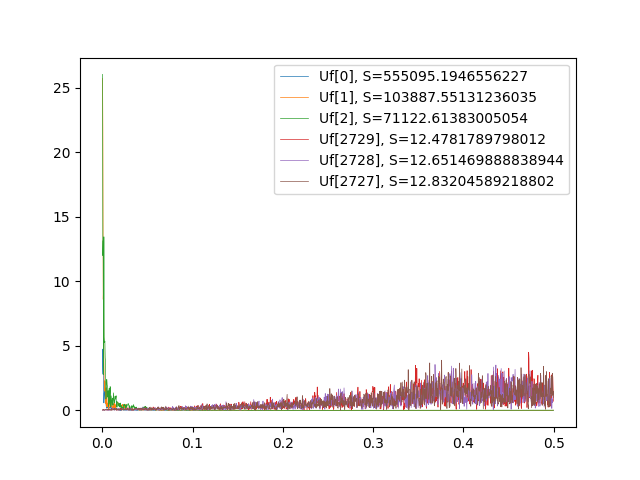
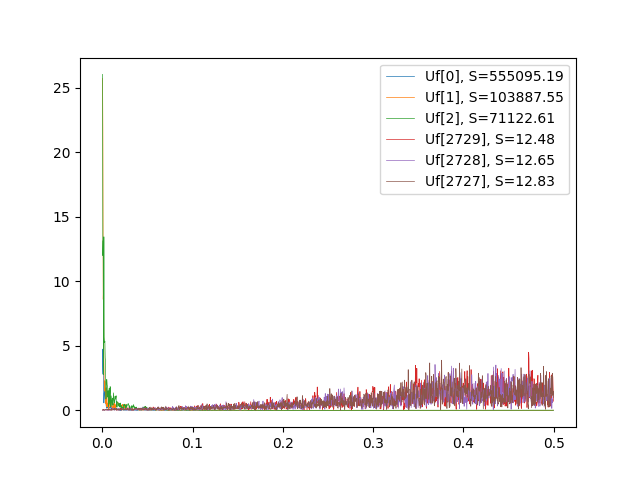
.

Changed region(s): [[0.5, 0.125, 0.875, 0.4062], [0.4375, 0.375, 0.4688, 0.4062]]

diff --git a/solution/T03.1.py b/solution/T03.1.py
@@ -1,0 +1,120 @@
+import torch
+
+# We will decompose tensor with QR, SVD and calculate entanglement entropy of decomposed tensors.
+
+# We will use the following notation:
+#   1. A = QR, where Q is unitary and R is upper triangular.
+#   2. A = U S V, where U and V are unitary and S is diagonal.
+
+print("# Exercise (a): Check the integrity of the tensor decomposition")
+
+N = 5
+sigma = [*range(6, N + 6)]
+# T0 = T = np.random.rand(*sigma)
+T0 = T = torch.rand(*sigma, dtype=torch.complex128) # float64 + float64 > complex128.
+Qs = []
+alpha = 1
+
+for i in range(N - 1):
+    T = T.reshape((alpha * sigma[i], -1))
+    # U, S, VT = np.linalg.svd(T, full_matrices=False)
+    # U, S, VT = torch.linalg.svd(T, full_matrices=False)
+    Q, R = torch.linalg.qr(T, mode='reduced')
+    Q = Q.reshape((alpha, sigma[i], -1))
+    Qs.append(Q)
+    T = R
+    alpha = Q.shape[-1]
+T = T.reshape((alpha, sigma[N - 1], -1))
+Qs.append(T)
+
+print("Shapes:", [tuple(Q.shape) for Q in Qs])
+print("T0[1,1,1,1,1]:", T0[1,1,1,1,1])
+
+# First way to get `T[1,1,1,1,1]`
+q0 = Qs[0][:, 1, :]
+q1 = Qs[1][:, 1, :]
+q2 = Qs[2][:, 1, :]
+q3 = Qs[3][:, 1, :]
+q4 = Qs[4][:, 1, :]
+q = q0 @ q1 @ q2 @ q3 @ q4
+
+print("T0[1,1,1,1,1]:", q[0, ..., 0])
+
+# Second way to get `T[1,1,1,1,1]` (you can also use `torch.einsum`)
+q = torch.tensordot(Qs[0], Qs[1], ([-1], [0]))
+q = torch.tensordot(q, Qs[2], ([-1], [0]))
+q = torch.tensordot(q, Qs[3], ([-1], [0]))
+q = torch.tensordot(q, Qs[4], ([-1], [0]))
+q = q.squeeze(0).squeeze(-1)
+# q = q.squeeze((0, -1)) # for numpy
+print("T0[1,1,1,1,1]:", q[1, 1, 1, 1, 1])
+# double precision noise ~ 53 bits ~ 16 digits = 1e-16
+print("difference max:", torch.max(torch.abs(q - T0)))
+
+print("# Exercise (b): Entanglement entropies for different bipartitions")
+
+for A in [{0, 1}, {0, 2}, {0, 4}]:
+    B = list(set(range(N)) - A)
+    A = list(A)
+    tmp = T0.permute(*A, *B).contiguous().view(sigma[A[0]] * sigma[A[1]], -1)
+    U, S, VT = torch.linalg.svd(tmp, full_matrices=False)
+    S /= torch.sqrt(torch.sum(S ** 2))
+    print(f"Entanglement entropy for bipartition {A}, {B} is {-torch.sum(S ** 2 * torch.log2(S ** 2)):.4f}")
+
+
+print("# Exercise (c): Use the SVD for the tensor decomposition and compute the entanglement entropy")
+
+T = T0
+Us = []
+alpha = 1
+
+for i in range(N - 1):
+    T = T.reshape((alpha * sigma[i], -1))
+    U, S, VT = torch.linalg.svd(T, full_matrices=False)
+    s = S / torch.sqrt(torch.sum(S ** 2))
+    print(f"Entanglement entropy for bipartition for {i}th SVD is: {-torch.sum(s ** 2 * torch.log2(s ** 2)):.4f}")
+    U = U.reshape((alpha, sigma[i], -1))
+    Us.append(U)
+    T = S.reshape((-1, 1)) * VT
+    alpha = U.shape[-1]
+T = T.reshape((alpha, sigma[N - 1], -1))
+Us.append(T)
+
+# Yes, this is `torch.einsum`
+q = torch.einsum('abc, cde, efg, ghi, ijk -> abdfhjk', Us[0], Us[1], Us[2], Us[3], Us[4])
+q = q.squeeze(0).squeeze(-1)
+print("Params:", sum([torch.numel(U) for U in Us]))
+print("Shapes:", [tuple(U.shape) for U in Us])
+print("T0[1,1,1,1,1]:", q[1, 1, 1, 1, 1])
+print("difference max:", torch.max(torch.abs(q - T0)))
+
+T = T0
+Us = []
+alpha = 1
+eps = 5
+
+for i in range(N - 1):
+    T = T.reshape((alpha * sigma[i], -1))
+    U, S, VT = torch.linalg.svd(T, full_matrices=False)
+    # Caution: SVD of matrix is not unique.
+    # especially, spectral values are given **nonnegative** in pytorch and numpy.
+    # SVD is given by eigendecomposition of A^T A, which is positive semidefinite, which gives nonnegative eigenvalues.
+    # singular value is square root of eigenvalues of A^T A
+    # Spectral values may not be nonnegative in other variants of SVD(randomized SVD, ...)
+    idx = S < eps
+    U = U[:, ~idx]
+    S = S[~idx]
+    VT = VT[~idx, :]
+    U = U.reshape((alpha, sigma[i], -1))
+    Us.append(U)
+    T = S.reshape((-1, 1)) * VT
+    alpha = U.shape[-1]
+T = T.reshape((alpha, sigma[N - 1], -1))
+Us.append(T)
+
+q = torch.einsum('abc, cde, efg, ghi, ijk -> abdfhjk', Us[0], Us[1], Us[2], Us[3], Us[4])
+q = q.squeeze(0).squeeze(-1)
+print("Params:", sum([torch.numel(U) for U in Us]))
+print("Shapes:", [tuple(U.shape) for U in Us])
+print("T0[1,1,1,1,1]:", q[1, 1, 1, 1, 1])
+print("difference max:", torch.max(torch.abs(q - T0)))

diff --git a/solution/T02.2.py b/solution/T02.2.py
@@ -31,3 +31,39 @@ print(time.time() - now) # 0.0247
 now = time.time()
 np.einsum('cd,amc,bmd->ab', A, B, C, optimize=False)
 print(time.time() - now) # 20.24
+
+# (AC)B:
+#   expression. (left dim)(right dim) = O(complexity), where parenthesis is on contracted legs.
+#   1. (cd)(bmd) = bc(d)m
+#   2. (bcm)(amc) = ab(cm)
+#   sum = bcdm + abcm
+# (BC)A:
+#   1. (amc)(bmd) = abc(m)d
+#   2. (abcd)(cd) = ab(cd)
+#   sum = abcdm + abcd
+# (AC)B is better then (BC)A.
+
+now = time.time()
+AC = np.einsum("cd,bmd->bcm", A, C)
+np.einsum("bcm,amc->ab", AC, B)
+print(time.time() - now) # 0.2481 (on intel 10700)
+
+now = time.time()
+BC = np.einsum("amc,bmd->abcd", B, C)
+np.einsum("abcd,cd->ab", BC, A)
+print(time.time() - now) # 23.18 (on intel 10700)
+
+# About 100 times faster, which is expected!
+
+now = time.time()
+AC = np.einsum("cd,bmd->bcm", A, C, optimize=True)
+np.einsum("bcm,amc->ab", AC, B, optimize=True)
+print(time.time() - now) # 0.0200 (on intel 10700)
+
+now = time.time()
+BC = np.einsum("amc,bmd->abcd", B, C, optimize=True)
+np.einsum("abcd,cd->ab", BC, A, optimize=True)
+print(time.time() - now) # 1.477 (on intel 10700)
+
+# About 100 times faster, which is expected, but not just right as previous case;
+# it's because optimization made some nonlinearity.

diff --git a/solution/T01.3.py b/solution/T01.3.py
@@ -19,11 +19,11 @@ freq = np.fft.fftfreq(Uf.shape[0])
 Uf = Uf[freq > 0, :]
 freq = freq[freq > 0]
 for i in [0, 1, 2]:
-    plt.plot(freq, np.abs(Uf[:, i]), label=f"Uf[{i}], S={S[i]}", linewidth=0.5)
+    plt.plot(freq, np.abs(Uf[:, i]), label=f"Uf[{i}], S={S[i]:.02f}", linewidth=0.5)
 
 for i in [0, 1, 2]:
     i = S.shape[0] - 1 - i
-    plt.plot(freq, np.abs(Uf[:, i]), label=f"Uf[{i}], S={S[i]}", linewidth=0.5)
+    plt.plot(freq, np.abs(Uf[:, i]), label=f"Uf[{i}], S={S[i]:.02f}", linewidth=0.5)
 plt.legend()
 plt.savefig("fftU.png")
 plt.close()
@@ -32,11 +32,11 @@ freq = np.fft.fftfreq(Vf.shape[0])
 Vf = Vf[freq > 0, :]
 freq = freq[freq > 0]
 for i in [0, 1, 2]:
-    plt.plot(freq, np.abs(Vf[:, i]), label=f"Vf[{i}], S={S[i]}", linewidth=0.5)
+    plt.plot(freq, np.abs(Vf[:, i]), label=f"Vf[{i}], S={S[i]:.02f}", linewidth=0.5)
 
 for i in [0, 1, 2]:
     i = S.shape[0] - 1 - i
-    plt.plot(freq, np.abs(Vf[:, i]), label=f"Vf[{i}], S={S[i]}", linewidth=0.5)
+    plt.plot(freq, np.abs(Vf[:, i]), label=f"Vf[{i}], S={S[i]:.02f}", linewidth=0.5)
 plt.legend()
 plt.savefig("fftV.png")
 plt.close()

diff --git a/solution/T04.1.py b/solution/T04.1.py
@@ -1,0 +1,32 @@
+# import numpy as np
+import pennylane as qml
+from pennylane import numpy as np
+
+X = qml.PauliX(wires=0).matrix()
+Y = qml.PauliY(wires=0).matrix()
+Z = qml.PauliZ(wires=0).matrix()
+I = qml.Identity(wires=0).matrix()
+
+H = 0
+for i, j in ((0, 1), (1, 2), (2, 0)):
+    S = ["I", "I", "I"]
+    for s in "XYZ":
+        S[i] = s; S[j] = s
+        H += qml.pauli.string_to_pauli_word(''.join(S))
+        S = ["I", "I", "I"]
+
+H = qml.matrix(H) / 4
+print(np.linalg.eigh(H)[:1])
+
+N = 11
+H = np.diag(-np.exp(1j * np.arange(1, N)), -1)
+H += np.matrix.getH(H)
+
+def ground_state(H):
+    w, v = np.linalg.eigh(H)
+    w[abs(w) < 1e-9] = 0
+    return np.sum(w[w < 0]), 2 ** np.sum(w == 0), w
+
+print(ground_state(H)[:2])
+
+c = np.array([[0, 1], [0, 0]])
